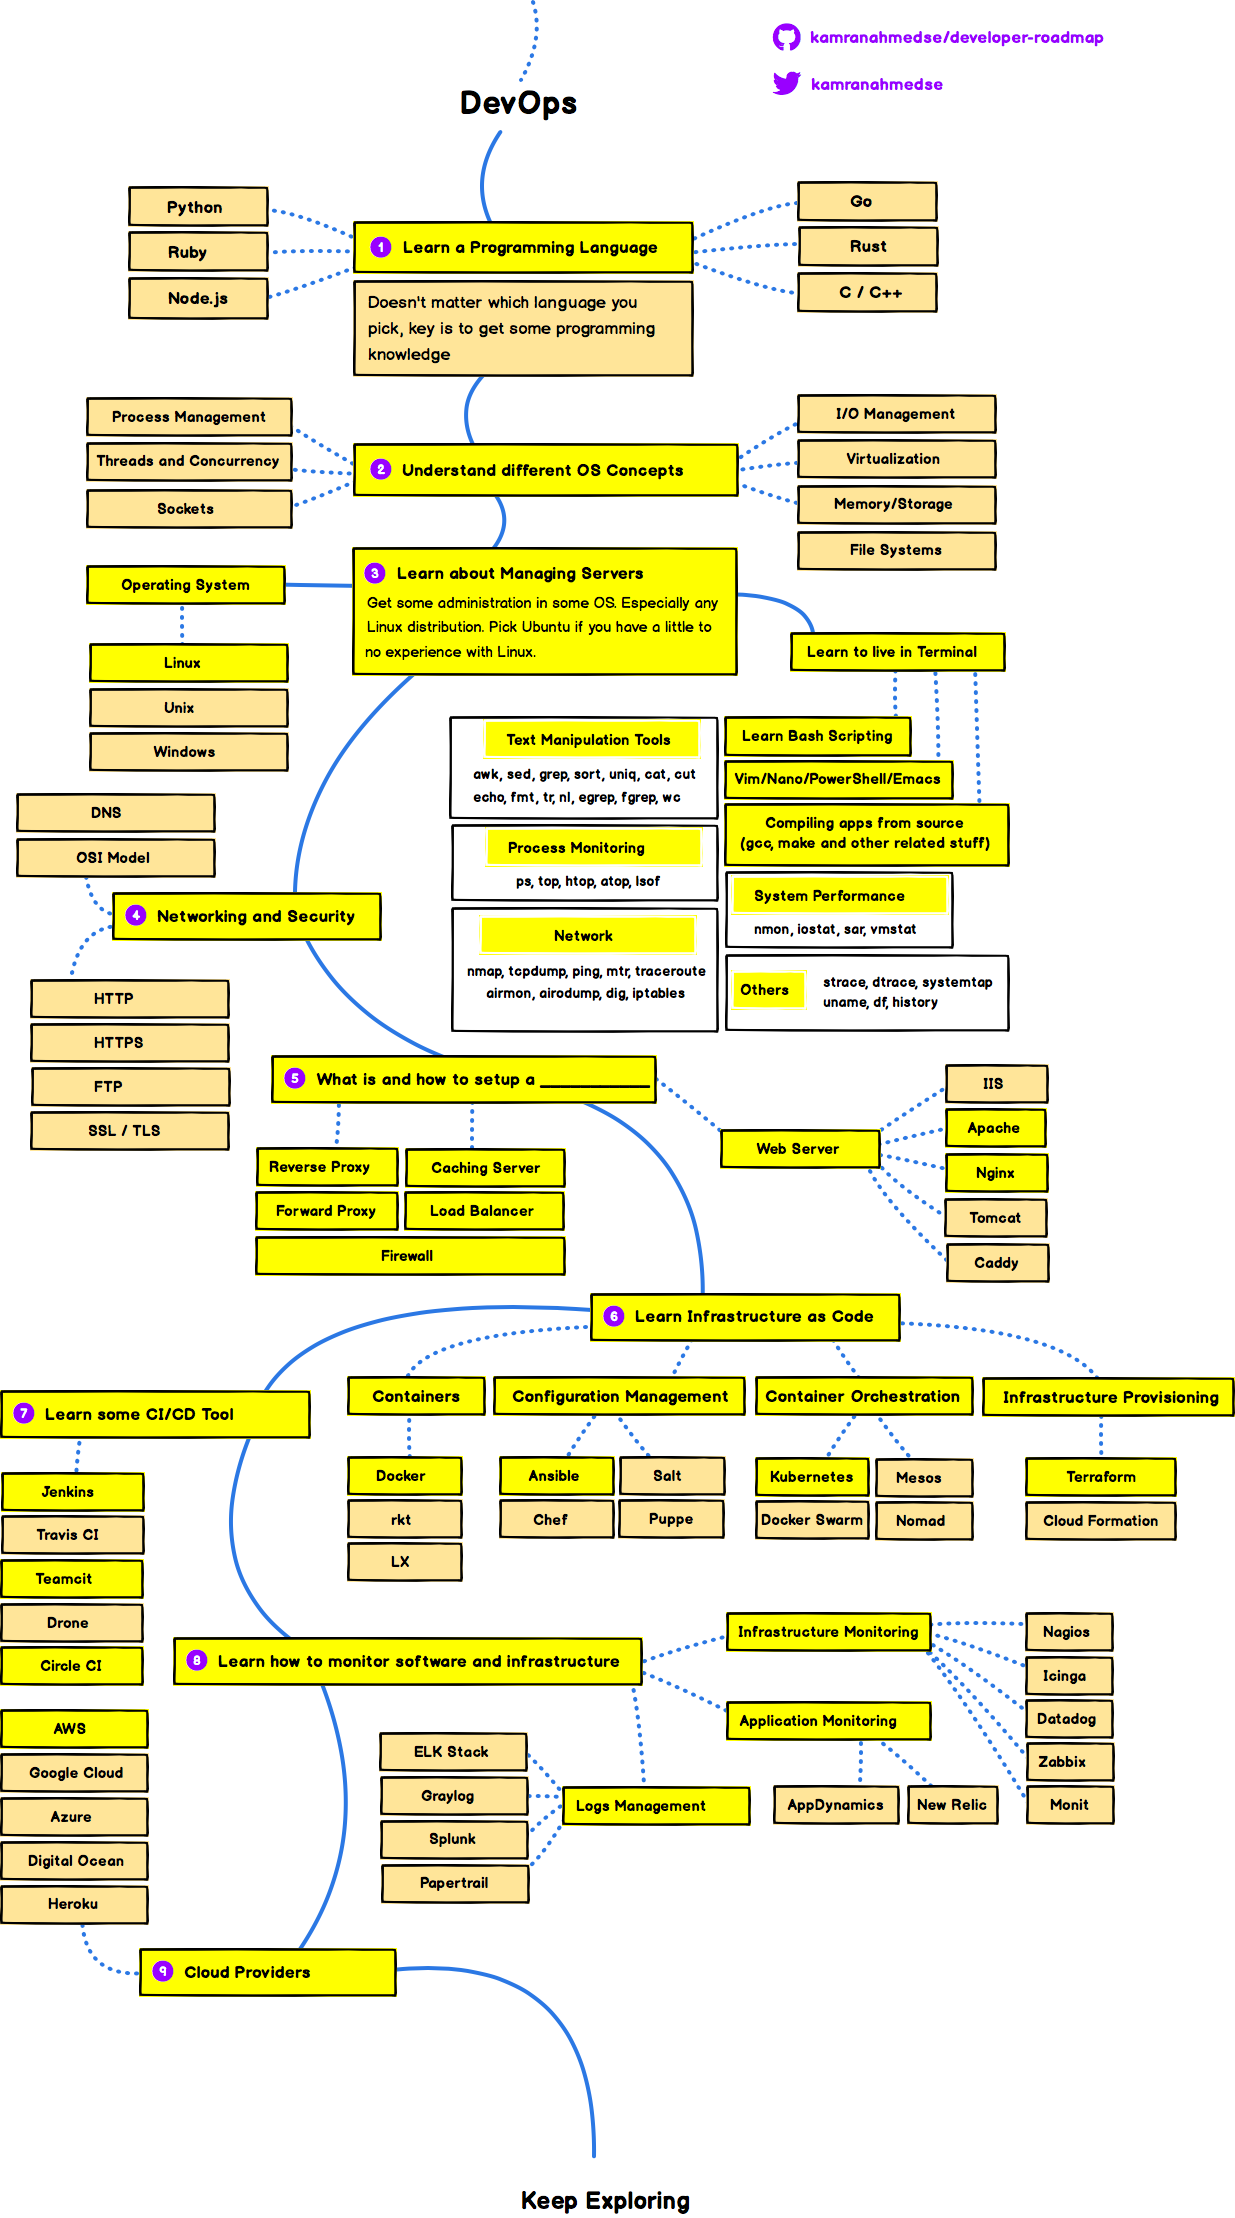
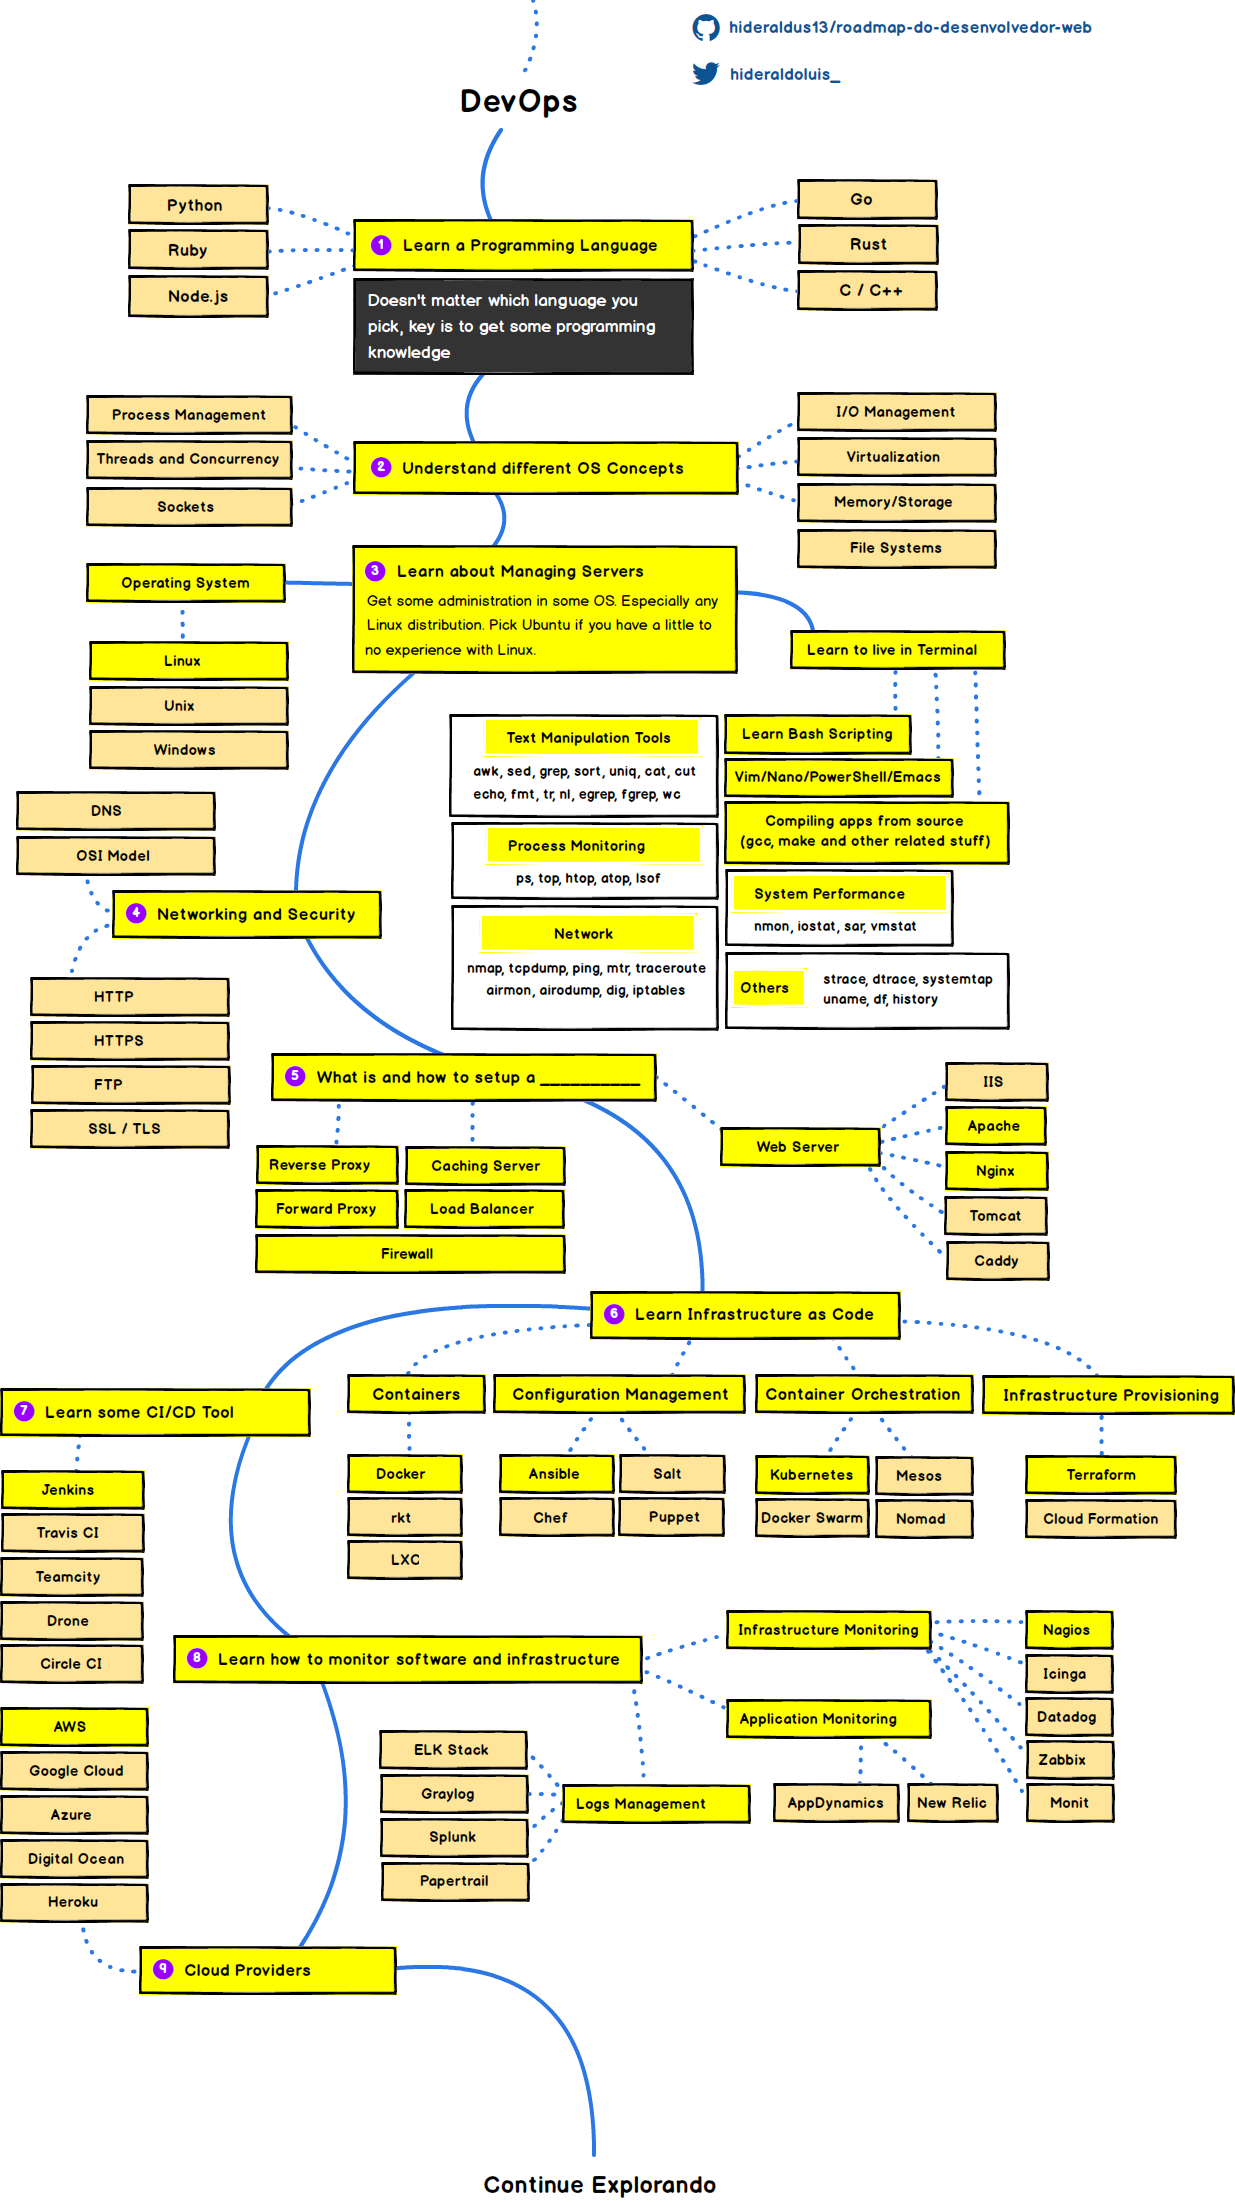
Tradução em 50%

diff --git a/README.md b/README.md
@@ -1,4 +1,4 @@
-<img src="https://img.shields.io/badge/Traduzido-10%25-red.svg"> </b>
+<img src="https://img.shields.io/badge/Traduzido-50%25-yellow.svg"> </b>
 
 <p align="center">
   <a href="https://github.com/hideraldus13/roadmap-do-desenvolvedor-web">
@@ -55,4 +55,5 @@ Se você acredita que os roadmaps podem ser incrementados, por favor abra um <i>
 [![License: CC BY-NC-SA 4.0](https://img.shields.io/badge/License-CC%20BY--NC--SA%204.0-lightgrey.svg)](https://creativecommons.org/licenses/by-nc-sa/4.0/) <br>
 Originalmente criado por [kamranahmedse](https://twitter.com/kamranahmedse) <br>
 Produção original disponível em [developer-roadmap](https://github.com/kamranahmedse/developer-roadmap) <br>
-Traduzido e adaptado por [hideraldoluis_](https://twitter.com/hideraldoluis_) e [LuysHNS](https://twitter.com/LuysHNS)
+Traduzido e adaptado por [hideraldoluis_](https://twitter.com/hideraldoluis_) 
+Revisado por [LuysHNS](https://twitter.com/LuysHNS)
